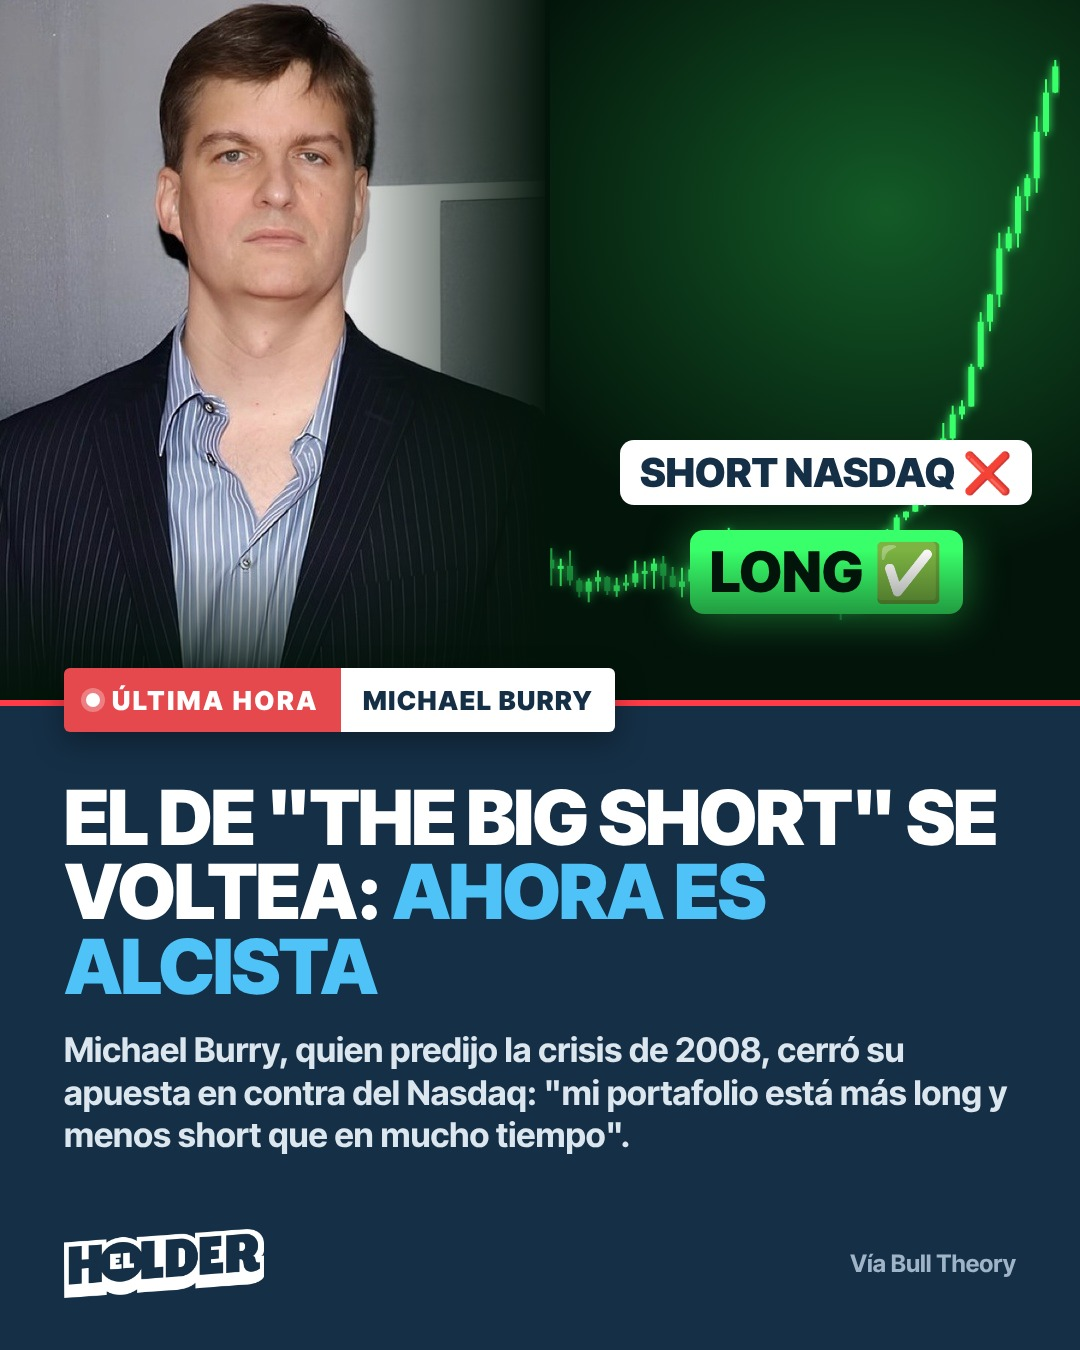
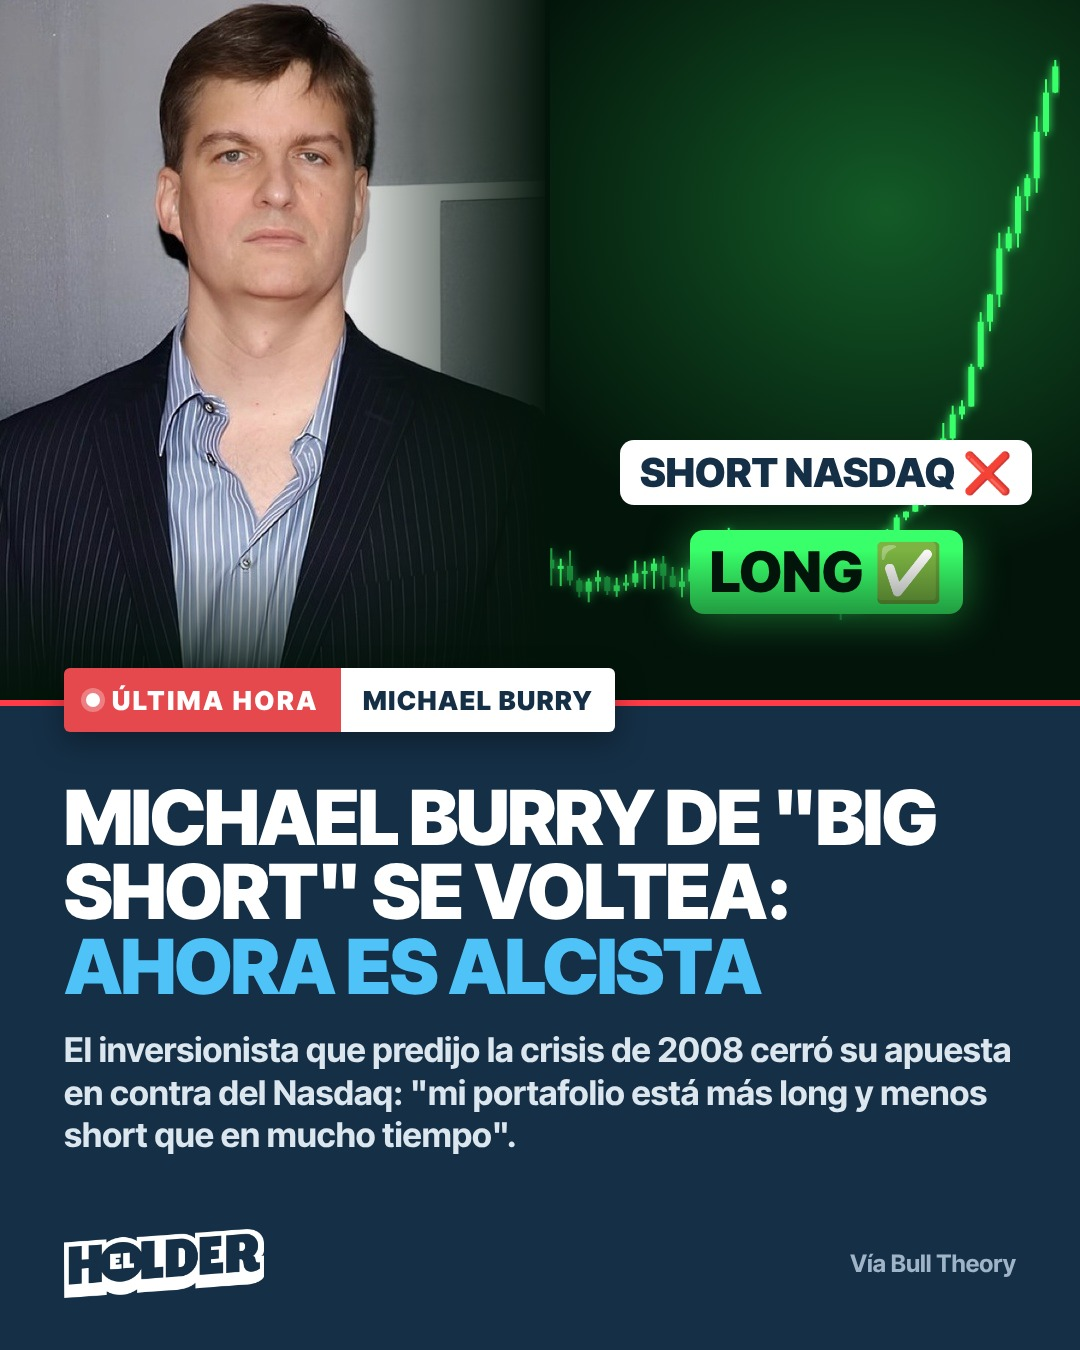
Burry: titular con nombre
Claude-Session: https://claude.ai/code/session_011HtJt2a4sBpoKNENnst7wy

Changed region(s): [[0.0611, 0.56, 0.9472, 0.8711]]

diff --git a/noticias/2026-11-25-burry-long/src/noticia.html b/noticias/2026-11-25-burry-long/src/noticia.html
@@ -32,8 +32,8 @@ p{margin:0;font-weight:700;font-size:34px;line-height:1.24;color:#DCE6EF}
 <div id="bar"></div>
 <div id="pill"><span class="l"><i></i>ÚLTIMA HORA</span><span class="r">MICHAEL BURRY</span></div>
 <div id="txt">
- <h1>El de "The Big Short" se voltea: <span class="a">ahora es alcista</span></h1>
- <p>Michael Burry, quien predijo la crisis de 2008, cerró su apuesta en contra del Nasdaq: "mi portafolio está más long y menos short que en mucho tiempo".</p>
+ <h1>Michael Burry de "Big Short" se voltea: <span class="a">ahora es alcista</span></h1>
+ <p>El inversionista que predijo la crisis de 2008 cerró su apuesta en contra del Nasdaq: "mi portafolio está más long y menos short que en mucho tiempo".</p>
 </div>
 <div id="pie"><img src="../../../brand/logo-horizontal-transparente.png"><span>Vía Bull Theory</span></div>
 </body></html>
